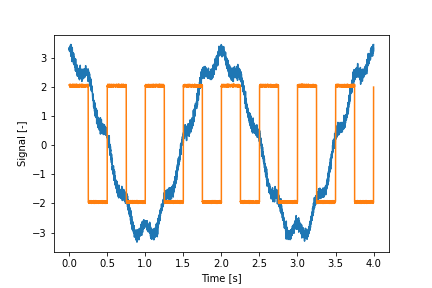
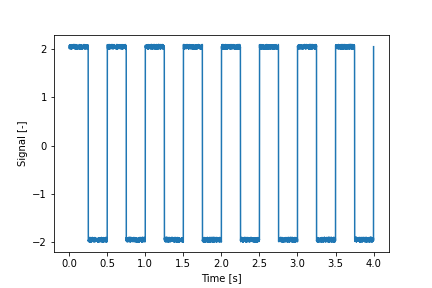
Commented out everything unnecessary, step-by-step code activation

diff --git a/TEMP/testrig_postproc/example_usage.py b/TEMP/testrig_postproc/example_usage.py
@@ -4,81 +4,88 @@ example_usage.py
 Builds a compressor test rig with synthetic data and runs the standard evaluation chain:
     set-up rig -> import data -> process -> analyse -> plot -> export
 """
+#################################
+########### START################
+#################################
+print("Hello World!")
+# IMPORT
 from pathlib import Path
 
 import numpy as np
 import pandas as pd
 
-from testrig_postproc import (AngularRange, CompressorTestRig, CompressorWheel, DisplacementPoint,
-                              MeasurementSector, PlaneRole, Position, PressureTransducer, ProximityProbe,
-                              Rotor, Shaft, SpeedPoint, StationaryMeasurementPlane, StaticPressurePoint,
-                              TestCampaign, TestRun, TimeSeriesRecord, TotalPressurePoint,
-                              TotalTemperaturePoint)
-from testrig_postproc.analysis import CircumferentialAnalysis, CompressorPerformanceAnalysis, OrderAnalysis
-from testrig_postproc.dataio import ExcelResultWriter, SteadyStateCsvReader
-from testrig_postproc.processing import LowPassFilter, OutlierRemoval, ProcessingPipeline
-from testrig_postproc.visualization import CircumferentialPlotter, PerformanceMapPlotter, SpectrumPlotter
+from testrig_postproc import TestRig, Rotor, SpeedPoint
+# from testrig_postproc import (AngularRange, CompressorTestRig, DisplacementPoint,
+#                               MeasurementSector, PlaneRole, Position, PressureTransducer, ProximityProbe,
+#                               Rotor, Shaft, SpeedPoint, StationaryMeasurementPlane, StaticPressurePoint,
+#                               TestCampaign, TestRun, TimeSeriesRecord, TotalPressurePoint,
+#                               TotalTemperaturePoint) # REMOVED: CompressorWheel,
+# from testrig_postproc.analysis import CircumferentialAnalysis, CompressorPerformanceAnalysis, OrderAnalysis
+# from testrig_postproc.dataio import ExcelResultWriter, SteadyStateCsvReader
+# from testrig_postproc.processing import LowPassFilter, OutlierRemoval, ProcessingPipeline
+# from testrig_postproc.visualization import CircumferentialPlotter, PerformanceMapPlotter, SpectrumPlotter
 
-OUT = Path("example_output"); OUT.mkdir(exist_ok=True)
-rng = np.random.default_rng(0)
+# OUT = Path("example_output"); OUT.mkdir(exist_ok=True)
+# rng = np.random.default_rng(0)
 
-# ---------------------------------------------------------------- 1. rig set-up
-rig = CompressorTestRig("Rig_Demo", location="Baden")
+# # ---------------------------------------------------------------- 1. rig set-up
+rig = TestRig("TTTF", location="Graz University of Technology")
+# TODO Figure necessity of SpeedPoint() and its idea, I dont think it makes sense
 rotor = rig.add_rotor(Rotor("R1", speed_point=SpeedPoint("N1", channel="N_RPM"), max_speed_rpm=40000))
-rotor.add(Shaft("Shaft", length=0.6, diameter=0.05))
-rotor.add(CompressorWheel("CW", outer_radius=0.15, blade_count=9, splitter_count=9))
+# rotor.add(Shaft("Shaft", length=0.6, diameter=0.05))
+# rotor.add(CompressorWheel("CW", outer_radius=0.15, blade_count=9, splitter_count=9))
 
 
-def build_plane(pid, role, x, n_sectors=4, rakes_per_sector=2):
-    plane = rig.add(StationaryMeasurementPlane(pid, axial_position=x, role=role, hub_radius=0.05, tip_radius=0.15))
-    span = 360 / n_sectors
-    for s in range(n_sectors):
-        sec = plane.add(MeasurementSector(f"{pid}_S{s+1}", AngularRange(s * span, (s + 1) * span)))
-        for k in range(rakes_per_sector):
-            th = s * span + (k + 0.5) * span / rakes_per_sector
-            pos = Position(x, 0.10, th)
-            tag = f"{pid}_S{s+1}_{k+1}"
-            sec.add(TotalPressurePoint(f"PT_{tag}", position=pos,
-                                       sensor=PressureTransducer(f"PT_{tag}_sens", serial_number=f"SN{s}{k}")))
-            sec.add(TotalTemperaturePoint(f"TT_{tag}", position=pos))
-            sec.add(StaticPressurePoint(f"PS_{tag}", position=Position(x, 0.15, th)))
-    return plane
+# def build_plane(pid, role, x, n_sectors=4, rakes_per_sector=2):
+#     plane = rig.add(StationaryMeasurementPlane(pid, axial_position=x, role=role, hub_radius=0.05, tip_radius=0.15))
+#     span = 360 / n_sectors
+#     for s in range(n_sectors):
+#         sec = plane.add(MeasurementSector(f"{pid}_S{s+1}", AngularRange(s * span, (s + 1) * span)))
+#         for k in range(rakes_per_sector):
+#             th = s * span + (k + 0.5) * span / rakes_per_sector
+#             pos = Position(x, 0.10, th)
+#             tag = f"{pid}_S{s+1}_{k+1}"
+#             sec.add(TotalPressurePoint(f"PT_{tag}", position=pos,
+#                                        sensor=PressureTransducer(f"PT_{tag}_sens", serial_number=f"SN{s}{k}")))
+#             sec.add(TotalTemperaturePoint(f"TT_{tag}", position=pos))
+#             sec.add(StaticPressurePoint(f"PS_{tag}", position=Position(x, 0.15, th)))
+#     return plane
 
 
-p1 = build_plane("E1", PlaneRole.COMPRESSOR_INLET, 0.0)
-p2 = build_plane("E2", PlaneRole.COMPRESSOR_OUTLET, 0.3)
-brg = rig.add(StationaryMeasurementPlane("B1", axial_position=0.4, role=PlaneRole.BEARING))
-brg_sec = brg.add(MeasurementSector("B1_S1"))
-prox = brg_sec.add(DisplacementPoint("DX_B1", direction="x", position=Position(0.4, 0.025, 45),
-                                     sensor=ProximityProbe("PX1")))
+# p1 = build_plane("E1", PlaneRole.COMPRESSOR_INLET, 0.0)
+# p2 = build_plane("E2", PlaneRole.COMPRESSOR_OUTLET, 0.3)
+# brg = rig.add(StationaryMeasurementPlane("B1", axial_position=0.4, role=PlaneRole.BEARING))
+# brg_sec = brg.add(MeasurementSector("B1_S1"))
+# prox = brg_sec.add(DisplacementPoint("DX_B1", direction="x", position=Position(0.4, 0.025, 45),
+#                                      sensor=ProximityProbe("PX1")))
 
----------------------------------------------------------------- 2. campaign & data import
-campaign = TestCampaign("Demo campaign", rig, va_number="VA-0000", test_object="Demo compressor")
-run = campaign.add(TestRun("Run01", operator="Demo"))
+# # ---------------------------------------------------------------- 2. campaign & data import
+# campaign = TestCampaign("Demo campaign", rig, va_number="VA-0000", test_object="Demo compressor")
+# run = campaign.add(TestRun("Run01", operator="Demo"))
 
-rows = []
-for n in (20000, 25000, 30000):
-    for j, throttle in enumerate((0.8, 1.0, 1.2)):
-        op = f"N{n//1000}_P{j+1}"
-        pr = 1 + 2.2 * (n / 30000) ** 2 * (1.1 - 0.1 * throttle)
-        tr = pr ** (0.2857 / (0.80 - 0.04 * (throttle - 1) ** 2 * 10))
-        row = {"op_id": op, "N_RPM": n}
-        for pt in rig.points():
-            if pt.plane is None or pt.plane.id not in ("E1", "E2"):
-                continue
-            th = np.deg2rad(pt.position.theta)
-            dist = 1 + 0.01 * np.cos(th)  # 1st harmonic distortion
-            if isinstance(pt, TotalPressurePoint):
-                row[pt.channel] = (1.0 if pt.plane.id == "E1" else pr) * 101325 * dist
-            elif isinstance(pt, TotalTemperaturePoint):
-                row[pt.channel] = (293.15 if pt.plane.id == "E1" else 293.15 * tr) + rng.normal(0, 0.2)
-            else:
-                row[pt.channel] = (0.95 if pt.plane.id == "E1" else 0.9 * pr) * 101325
-        rows.append(row)
-csv = OUT / "steady_data.csv"
-pd.DataFrame(rows).to_csv(csv, index=False)
-reader = SteadyStateCsvReader(rig)
-reader.read(csv, run)
+# rows = []
+# for n in (20000, 25000, 30000):
+#     for j, throttle in enumerate((0.8, 1.0, 1.2)):
+#         op = f"N{n//1000}_P{j+1}"
+#         pr = 1 + 2.2 * (n / 30000) ** 2 * (1.1 - 0.1 * throttle)
+#         tr = pr ** (0.2857 / (0.80 - 0.04 * (throttle - 1) ** 2 * 10))
+#         row = {"op_id": op, "N_RPM": n}
+#         for pt in rig.points():
+#             if pt.plane is None or pt.plane.id not in ("E1", "E2"):
+#                 continue
+#             th = np.deg2rad(pt.position.theta)
+#             dist = 1 + 0.01 * np.cos(th)  # 1st harmonic distortion
+#             if isinstance(pt, TotalPressurePoint):
+#                 row[pt.channel] = (1.0 if pt.plane.id == "E1" else pr) * 101325 * dist
+#             elif isinstance(pt, TotalTemperaturePoint):
+#                 row[pt.channel] = (293.15 if pt.plane.id == "E1" else 293.15 * tr) + rng.normal(0, 0.2)
+#             else:
+#                 row[pt.channel] = (0.95 if pt.plane.id == "E1" else 0.9 * pr) * 101325
+#         rows.append(row)
+# csv = OUT / "steady_data.csv"
+# pd.DataFrame(rows).to_csv(csv, index=False)
+# reader = SteadyStateCsvReader(rig)
+# reader.read(csv, run)
 
 # # time-resolved shaft displacement for one OP (1x + 2x + noise)
 # op_dyn = "N30_P2"
@@ -110,3 +117,7 @@ reader.read(csv, run)
 # ExcelResultWriter({"VA": campaign.va_number, "Rig": rig.name}).write(
 #     {"performance": perf_df, "instrumentation": rig.instrumentation_list()}, OUT / "results.xlsx")
 # print("\nOutputs written to", OUT.resolve())
+#################################
+########### END #################
+#################################
+print("Ciao World!")

diff --git a/TEMP/testrig_postproc/testrig_postproc/core/test_rig.py b/TEMP/testrig_postproc/testrig_postproc/core/test_rig.py
@@ -53,8 +53,12 @@ class TestRig(CompositeEntity[MeasurementPlane]):
     @property
     def planes(self) -> List[MeasurementPlane]:
         return sorted(self.children, key=lambda p: p.axial_position)
+    
+    # @property
+    # def get_plane(self, role) -> MeasurementPlane:
+    #     return self.plane_by_role(PlaneRole.role)
 
-    def plane_by_role(self, role: PlaneRole) -> MeasurementPlane:
+    def get_plane_by_role(self, role: PlaneRole) -> MeasurementPlane:
         hits = [p for p in self if p.role is role]
         if len(hits) != 1:
             raise LookupError(f"Expected exactly one plane with role {role.name}, found {len(hits)}")
@@ -88,25 +92,24 @@ class TestRig(CompositeEntity[MeasurementPlane]):
         return pd.DataFrame(rows)[cols]
 
 
-class CompressorTestRig(TestRig):
-    @property
-    def compressor_inlet(self) -> MeasurementPlane:
-        return self.plane_by_role(PlaneRole.COMPRESSOR_INLET)
+# class CompressorTestRig(TestRig):
+#     @property
+#     def compressor_inlet(self) -> MeasurementPlane:
+#         return self.get_plane_by_role(PlaneRole.COMPRESSOR_INLET)
 
-    @property
-    def compressor_outlet(self) -> MeasurementPlane:
-        return self.plane_by_role(PlaneRole.COMPRESSOR_OUTLET)
+#     @property
+#     def compressor_outlet(self) -> MeasurementPlane:
+#         return self.get_plane_by_role(PlaneRole.COMPRESSOR_OUTLET)
 
 
 # class TurbineTestRig(TestRig):
 #     @property
 #     def turbine_inlet(self) -> MeasurementPlane:
-#         return self.plane_by_role(PlaneRole.TURBINE_INLET)
+#         return self.get_plane_by_role(PlaneRole.TURBINE_INLET)
 
 #     @property
 #     def turbine_outlet(self) -> MeasurementPlane:
-#         return self.plane_by_role(PlaneRole.TURBINE_OUTLET)
+#         return self.get_plane_by_role(PlaneRole.TURBINE_OUTLET)
 
 
-# class TurbochargerTestRig(CompressorTestRig, TurbineTestRig):
-#     """Rig with compressor and turbine stage on a common rotor."""
+

diff --git a/main.py b/main.py
@@ -13,10 +13,10 @@ import SIGGEN;
 ###############################################################################
 #################### SIGNAL  GENERATOR / DATA READ ############################
 ###############################################################################
-sig = SIGGEN.SIGGEN(4, 1000, [3,0.3],[0.5,4],[0,0]); # Initialize Signal
+sig = SIGGEN.SIGGEN(4, 1000, [5,0.5],[0.5,4],[0,m.pi/8]); # Initialize Signal
 sig.compute_Signal(); # Compute Signal
-sig.add_Gaussian_Noise(0, 0.1); # Add Noise
-sig.plot_Signal("Signal"); # Show signal
+# sig.add_Gaussian_Noise(0, 0.1); # Add Noise
+sig.plot_Signal("Signal_Test"); # Show signal
 
 trig = SIGGEN.SIGGEN(4, 1000, [2],[2],[0]); # Initialize Trigger Signal
 trig.compute_Square_Signal(); # Compute Trigger Signal

diff --git a/TEMP/testrig_postproc/testrig_postproc/core/__init__.py b/TEMP/testrig_postproc/testrig_postproc/core/__init__.py
@@ -14,6 +14,6 @@ from .measurement_point import (POINT_TYPES, AccelerationPoint, DisplacementPoin
 from .averaging import ArithmeticAverager, AreaWeightedAverager, Averager, CircumferentialAverager
 from .sector import MeasurementSector
 from .plane import MeasurementPlane, PlaneRole, RotatingMeasurementPlane, StationaryMeasurementPlane
-from .rotor import CompressorWheel, Disc, Rotor, RotorComponent, Shaft, TurbineWheel
-from .test_rig import CompressorTestRig, TestRig, TurbineTestRig, TurbochargerTestRig
+from .rotor import Disc, Rotor, RotorComponent, Shaft # CompressorWheel, TurbineWheel
+from .test_rig import TestRig #TurbochargerTestRig, CompressorTestRig, TurbineTestRig
 from .campaign import OperatingPoint, TestCampaign, TestRun

diff --git a/TEMP/testrig_postproc/testrig_postproc/core/rotor.py b/TEMP/testrig_postproc/testrig_postproc/core/rotor.py
@@ -49,9 +49,10 @@ class Shaft(RotorComponent):
 
 
 class Disc(RotorComponent, ABC):
-    def __init__(self, name: str, outer_radius: float = 0.0, blade_count: int = 0, **kwargs) -> None:
+    def __init__(self, name: str, inner_radius: float = 0.0, outer_radius: float = 0.0, blade_count: int = 0, **kwargs) -> None:
         super().__init__(name, **kwargs)
         self.outer_radius = outer_radius
+        self.inner_radius = inner_radius
         self.blade_count = blade_count
 
 

diff --git a/SIGGEN.py b/SIGGEN.py
@@ -72,6 +72,7 @@ class SIGGEN:
         plt.ylabel("Signal [-]")
         plt.show
         plt.savefig("./OUTPUT/"+label)
+        plt.close()
     
     def get_Signal(self):
         # Return time and signal series
